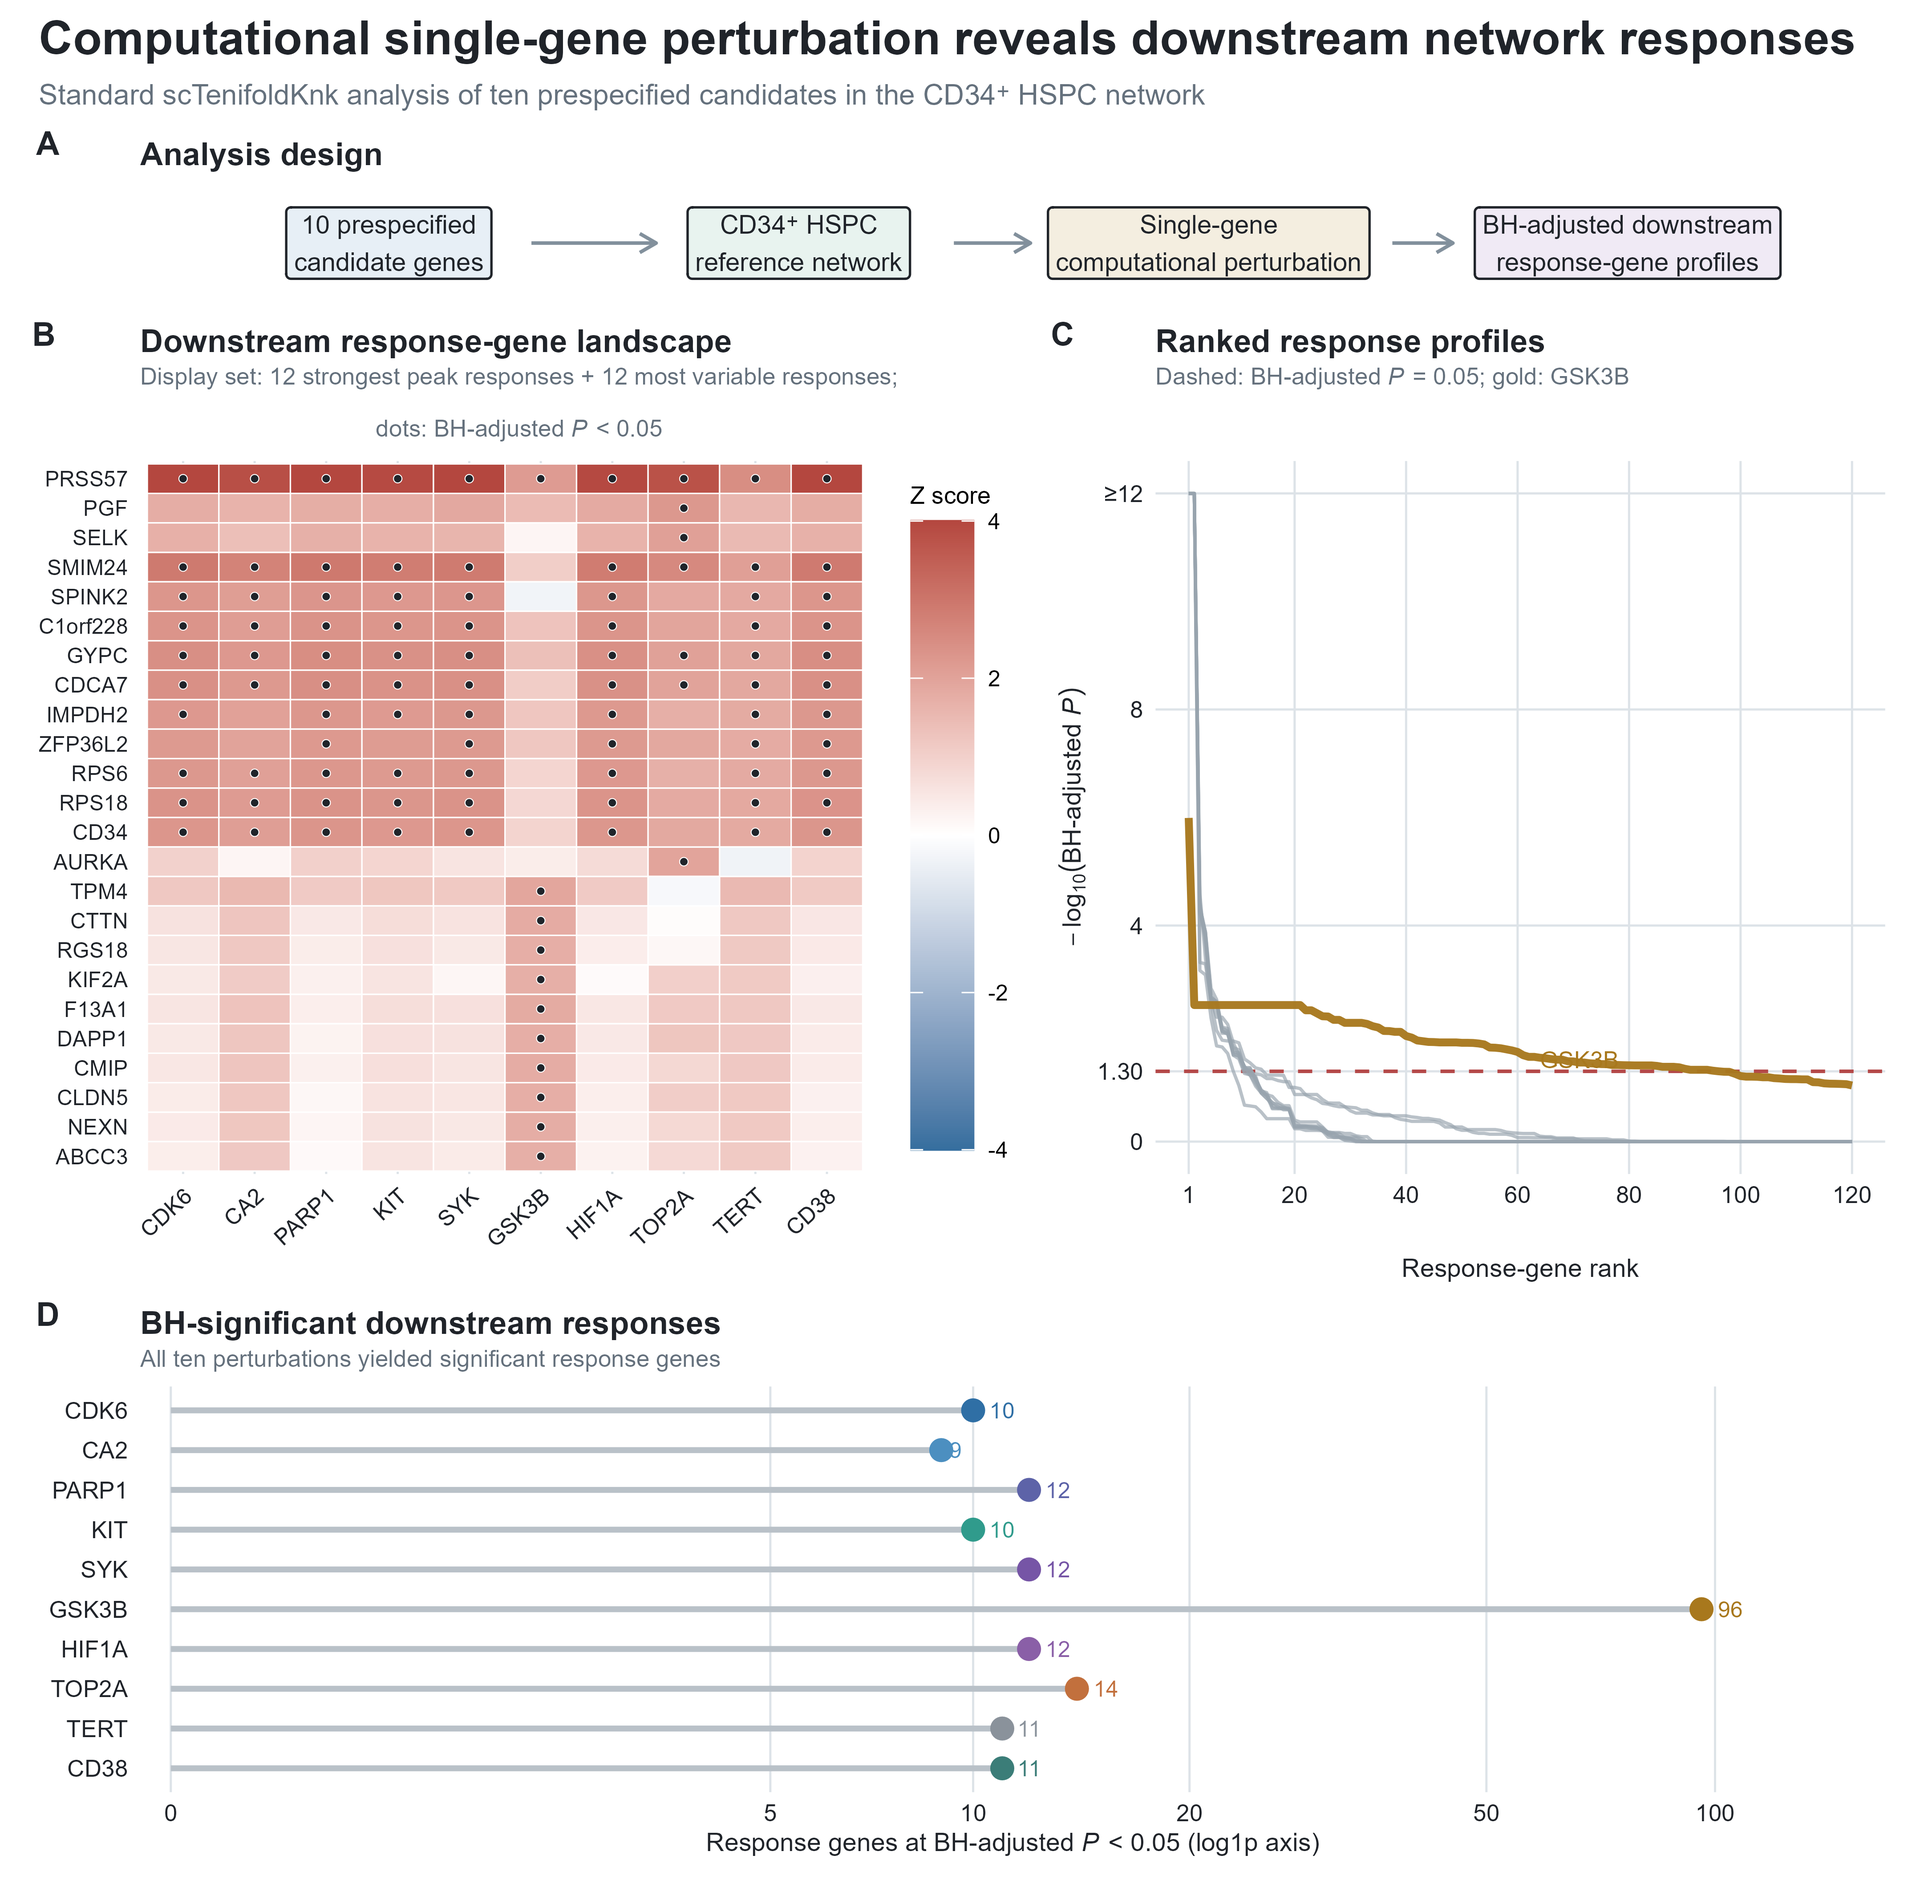
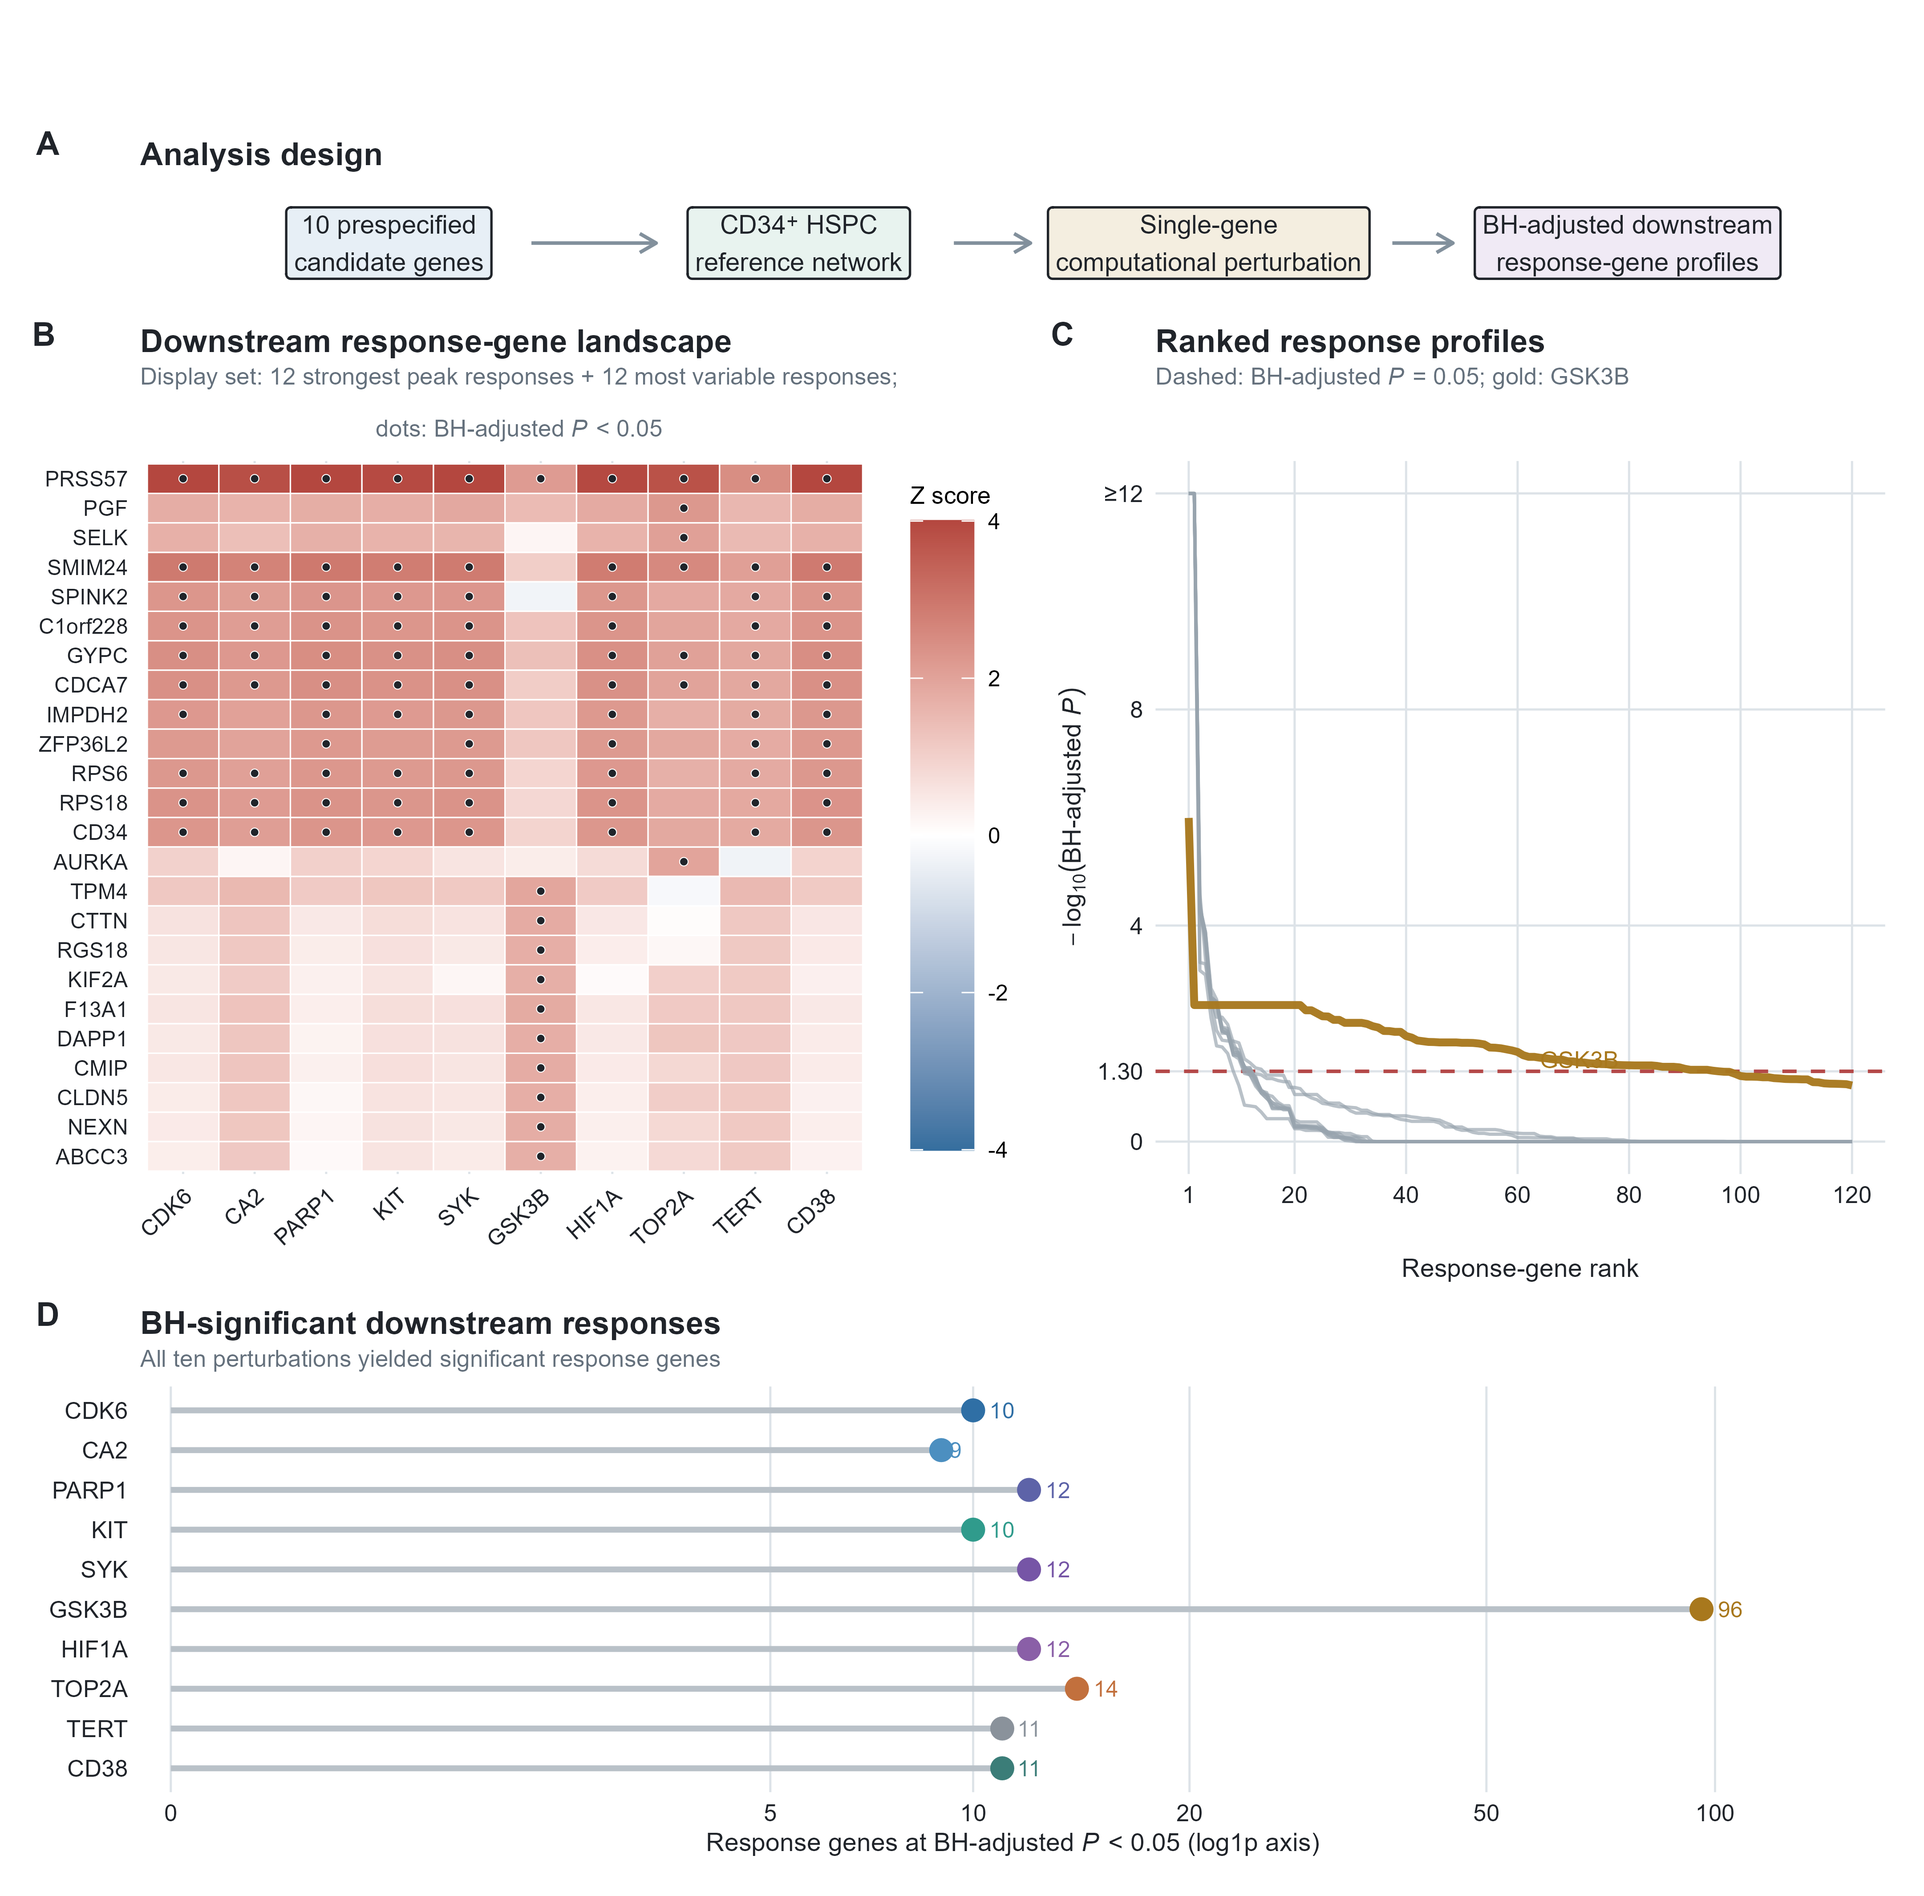
Apply BMC V7 compliance fixes

Changed region(s): [[0.0312, 0.0, 0.9681, 0.0624]]

diff --git a/scripts/publication_figures/reproduce_all_publication_figures.py b/scripts/publication_figures/reproduce_all_publication_figures.py
@@ -16,6 +16,9 @@ import shutil
 import subprocess
 import sys
 
+import numpy as np
+from PIL import Image
+
 from assemble_static_publication_figures import align_panel_letters, default_font
 
 
@@ -30,6 +33,27 @@ def copy(source: Path, destination: Path) -> None:
     if destination.exists():
         raise FileExistsError(destination)
     shutil.copy2(source, destination)
+
+
+def erase_top_title_band(path: Path, rows: int) -> None:
+    """Erase only a frozen top title band while preserving all lower pixels."""
+
+    with Image.open(path) as image:
+        dpi = image.info.get("dpi", (600, 600))
+        original = np.asarray(image.convert("RGB"), dtype=np.uint8).copy()
+    modified = original.copy()
+    modified[:rows, :, :] = 255
+    temporary = path.with_name(path.stem + ".title-band.tmp.png")
+    Image.fromarray(modified, mode="RGB").save(temporary, dpi=dpi)
+    with Image.open(temporary) as image:
+        verified = np.asarray(image.convert("RGB"), dtype=np.uint8)
+    if verified.shape != original.shape:
+        raise RuntimeError(f"Title-band postprocess changed canvas dimensions: {path}")
+    if not np.array_equal(verified[rows:, :, :], original[rows:, :, :]):
+        raise RuntimeError(f"Title-band postprocess changed panel pixels: {path}")
+    if not np.all(verified[:rows, :, :] == 255):
+        raise RuntimeError(f"Title-band postprocess did not produce a pure-white band: {path}")
+    os.replace(temporary, path)
 
 
 def main() -> int:
@@ -69,6 +93,7 @@ def main() -> int:
     )
     for number in (1, 2, 4, 5, 6):
         copy(static_dir / f"Figure_{number}.png", main_dir / f"Figure_{number}.png")
+    erase_top_title_band(main_dir / "Figure_5.png", 300)
 
     figure3_raw = work_dir / "figure3_raw"
     run(

diff --git a/scripts/validate_repository.py b/scripts/validate_repository.py
@@ -255,10 +255,10 @@ def validate_repository() -> int:
[12 lines of base64/hex data omitted]

diff --git a/GITHUB_ZENODO_RELEASE_CHECKLIST.md b/GITHUB_ZENODO_RELEASE_CHECKLIST.md
@@ -18,6 +18,9 @@ unpublishing, overwriting or DOI withdrawal for the historical repository.
       exports are absent and that only permissible derived tables remain.
 - [x] Rebuild Figure 1-9 and Figure S8-S10 and verify exact hashes or documented
       pixel tolerances against the frozen BMC submission references.
+- [x] Align the frozen BMC references with the V7 compliance fixes: Figure 5
+      and Figure 8 top-title bands erased only, and Additional file 4's repaired
+      workbook hash recorded without redistributing the journal workbook.
 
 ## Local static checks
 
